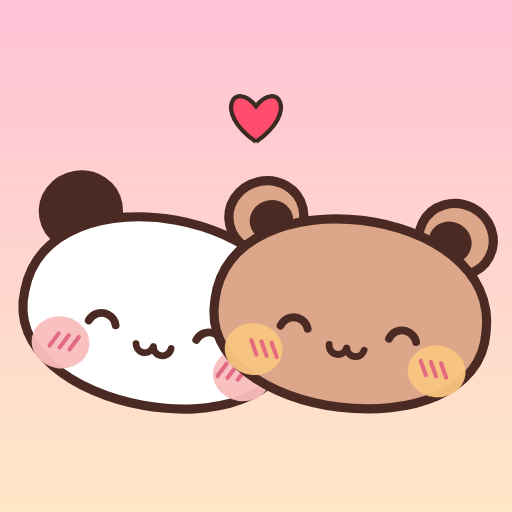
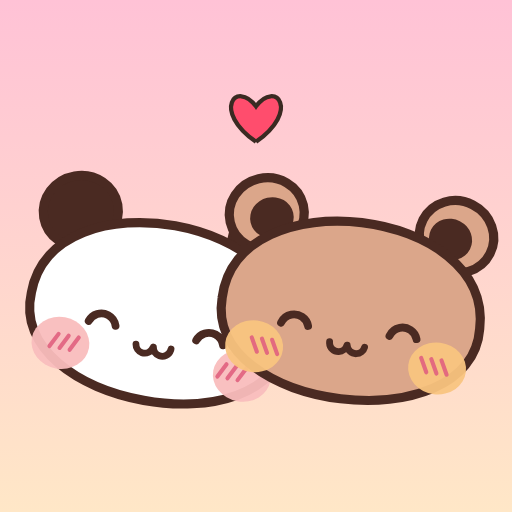
Burtica dolofana, manute scurte in jos cu linie interioara, proportii ca in desenele animate

diff --git a/src/char/draw.ts b/src/char/draw.ts
@@ -111,19 +111,19 @@ export function drawCharacter(
   // asa ca nu se mai vad "incheieturi" intre ele.
   const legPath = (side: -1 | 1) => {
     const lift2 = side < 0 ? p.legL : p.legR, ox = side < 0 ? p.legLx : p.legRx;
-    ctx.beginPath(); ctx.ellipse(side * 10.5 + ox, -5.5 - lift2, 7.5, 7.5, side * 0.15, 0, 7);
+    ctx.beginPath(); ctx.ellipse(side * 13 + ox, -5 - lift2, 8.5, 7, side * 0.12, 0, 7);
   };
   const bodyPath = () => {
     ctx.beginPath();
-    ctx.moveTo(p.hip - 17, -36);
-    ctx.bezierCurveTo(p.hip - 21, -28, p.hip - 23, -14, p.hip - 18, -7);
-    ctx.quadraticCurveTo(p.hip, -9, p.hip + 18, -7);
-    ctx.bezierCurveTo(p.hip + 23, -14, p.hip + 21, -28, p.hip + 17, -36);
+    ctx.moveTo(p.hip - 22, -42);
+    ctx.bezierCurveTo(p.hip - 32, -32, p.hip - 33, -12, p.hip - 22, -6);
+    ctx.quadraticCurveTo(p.hip, -8, p.hip + 22, -6);
+    ctx.bezierCurveTo(p.hip + 33, -12, p.hip + 32, -32, p.hip + 22, -42);
     ctx.closePath();
   };
-  const ARM_OFS = 0.55; // manutele stau iesite in lateral, ca niste aripioare
-  const armTf = (side: -1 | 1, ang: number) => { ctx.translate(side * 16 + p.hip * 0.5, -27); ctx.rotate(side < 0 ? ang + ARM_OFS : -(ang + ARM_OFS)); };
-  const armPath = () => { ctx.beginPath(); ctx.ellipse(0, 9, 6, 10.5, 0, 0, 7); };
+  const ARM_OFS = -0.25; // in repaus manutele stau in jos, langa burtica
+  const armTf = (side: -1 | 1, ang: number) => { ctx.translate(side * 24 + p.hip * 0.5, -33); ctx.rotate(side < 0 ? ang + ARM_OFS : -(ang + ARM_OFS)); };
+  const armPath = () => { ctx.beginPath(); ctx.ellipse(0, 7, 6.5, 8.5, 0, 0, 7); };
   const silhouette = (mode: 'stroke' | 'fill') => {
     const doIt = () => { if (mode === 'stroke') ctx.stroke(); else ctx.fill(); };
     for (const side of [-1, 1] as const) { legPath(side); doIt(); }
@@ -134,14 +134,22 @@ export function drawCharacter(
   silhouette('stroke');
   ctx.fillStyle = bodyFill;
   silhouette('fill');
+  // linia scurta dintre manuta si burtica (doar pe marginea interioara, nu tot conturul)
+  ctx.strokeStyle = O; ctx.lineWidth = LW;
+  for (const [side, ang] of [[-1, p.armL], [1, p.armR]] as const) {
+    if (ang + ARM_OFS >= 1.75) continue;
+    ctx.save(); armTf(side, ang); ctx.beginPath();
+    if (side < 0) ctx.ellipse(0, 7, 6.5, 8.5, 0, -0.1 * Math.PI, 0.42 * Math.PI); else ctx.ellipse(0, 7, 6.5, 8.5, 0, 0.58 * Math.PI, 1.1 * Math.PI);
+    ctx.stroke(); ctx.restore();
+  }
   // umbra moale pe burtica + talpile
   ctx.save(); bodyPath(); ctx.clip();
-  ctx.fillStyle = spec.shade; ctx.globalAlpha = 0.35; ell(ctx, p.hip + 4, -8, 22, 6); ctx.fill();
+  ctx.fillStyle = spec.shade; ctx.globalAlpha = 0.35; ell(ctx, p.hip + 4, -9, 28, 7); ctx.fill();
   ctx.restore();
   if (!p.back) for (const side of [-1, 1] as const) {
     const lift2 = side < 0 ? p.legL : p.legR, ox = side < 0 ? p.legLx : p.legRx;
     ctx.fillStyle = spec.id === 'dudu' ? '#c8917a' : spec.id === 'bubu' ? '#4a2a22' : '#ffd3dd';
-    ell(ctx, side * 10.5 + ox, -1.5 - lift2, 4.6, 2.6); ctx.fill();
+    ell(ctx, side * 13 + ox, -1 - lift2, 5, 2.6); ctx.fill();
   }
   if (p.back) { ell(ctx, p.hip, -10, 6, 5.5); fillStroke(ctx, spec.tail, O, 2); }
 
@@ -149,22 +157,22 @@ export function drawCharacter(
   // recuzita din labute
   for (const [side, ang, prop, pr] of [[-1, p.armL, p.propL, p.propRotL], [1, p.armR, p.propR, p.propRotR]] as const) {
     if (prop === 'none' || ang + ARM_OFS >= 1.75) continue;
-    ctx.save(); armTf(side, ang); ctx.translate(0, 17); ctx.rotate(pr * (side < 0 ? 1 : -1) - (side < 0 ? ARM_OFS : -ARM_OFS)); drawProp(ctx, prop, O, time); ctx.restore();
+    ctx.save(); armTf(side, ang); ctx.translate(0, 13); ctx.rotate(pr * (side < 0 ? 1 : -1) - (side < 0 ? ARM_OFS : -ARM_OFS)); drawProp(ctx, prop, O, time); ctx.restore();
   }
 
-  drawHead(ctx, spec, p, time, -56);
+  drawHead(ctx, spec, p, time, -62);
   // manutele ridicate se vad in fata capului (ca la stickere cand saluta)
   for (const [side, ang, prop, pr] of [[-1, p.armL, p.propL, p.propRotL], [1, p.armR, p.propR, p.propRotR]] as const) {
     if (ang + ARM_OFS < 1.75) continue;
     ctx.save(); armTf(side, ang); armPath(); fillStroke(ctx, bodyFill, O);
-    if (prop !== 'none') { ctx.translate(0, 17); ctx.rotate(pr * (side < 0 ? 1 : -1) - (side < 0 ? ARM_OFS : -ARM_OFS)); drawProp(ctx, prop, O, time); }
+    if (prop !== 'none') { ctx.translate(0, 13); ctx.rotate(pr * (side < 0 ? 1 : -1) - (side < 0 ? ARM_OFS : -ARM_OFS)); drawProp(ctx, prop, O, time); }
     ctx.restore();
   }
   ctx.restore();
 }
 
 let curOutfit: Outfit | undefined;
-const HW = 40, HH = 35; // marimea capului (mare, ca la stickere)
+const HW = 38, HH = 33; // marimea capului (mare, ca la stickere)
 
 function drawHead(ctx: CanvasRenderingContext2D, spec: CharSpec, p: Pose, time: number, baseY: number) {
   const O = spec.outline;
